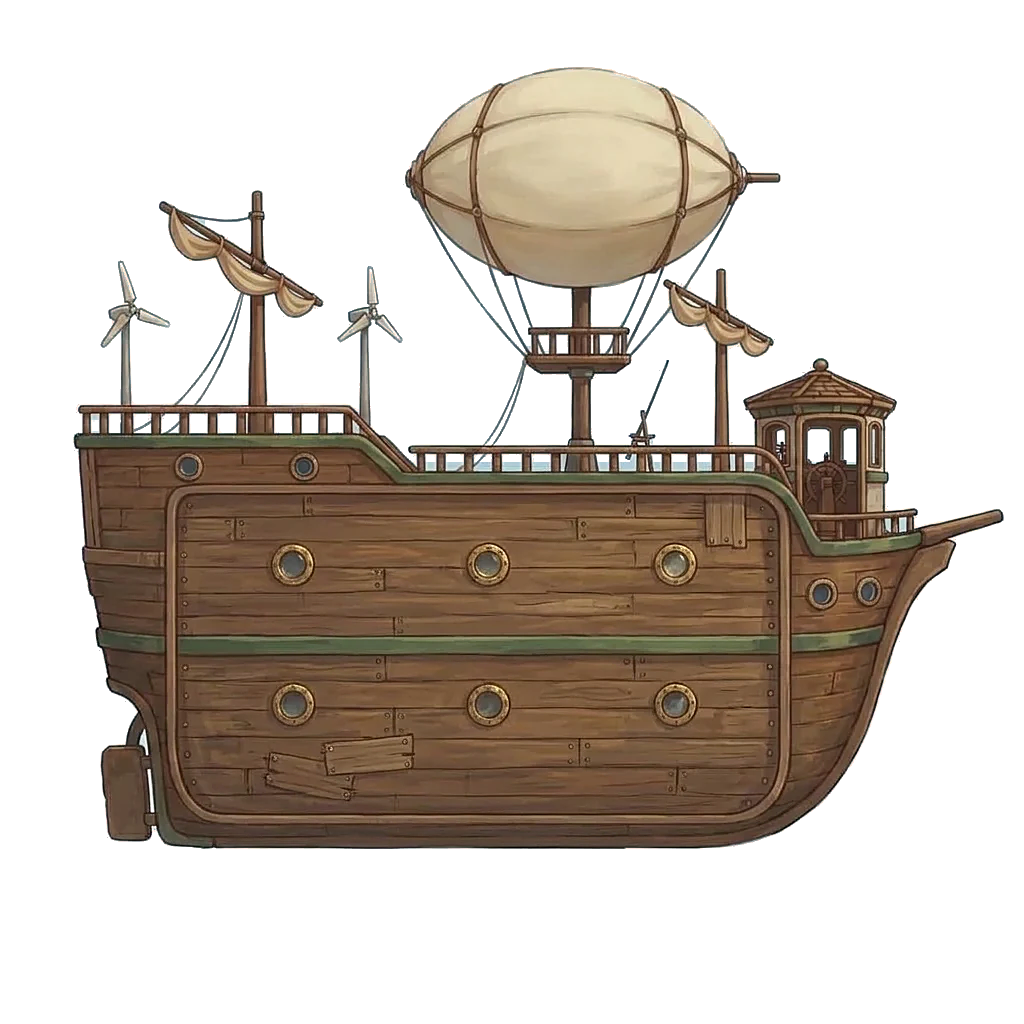
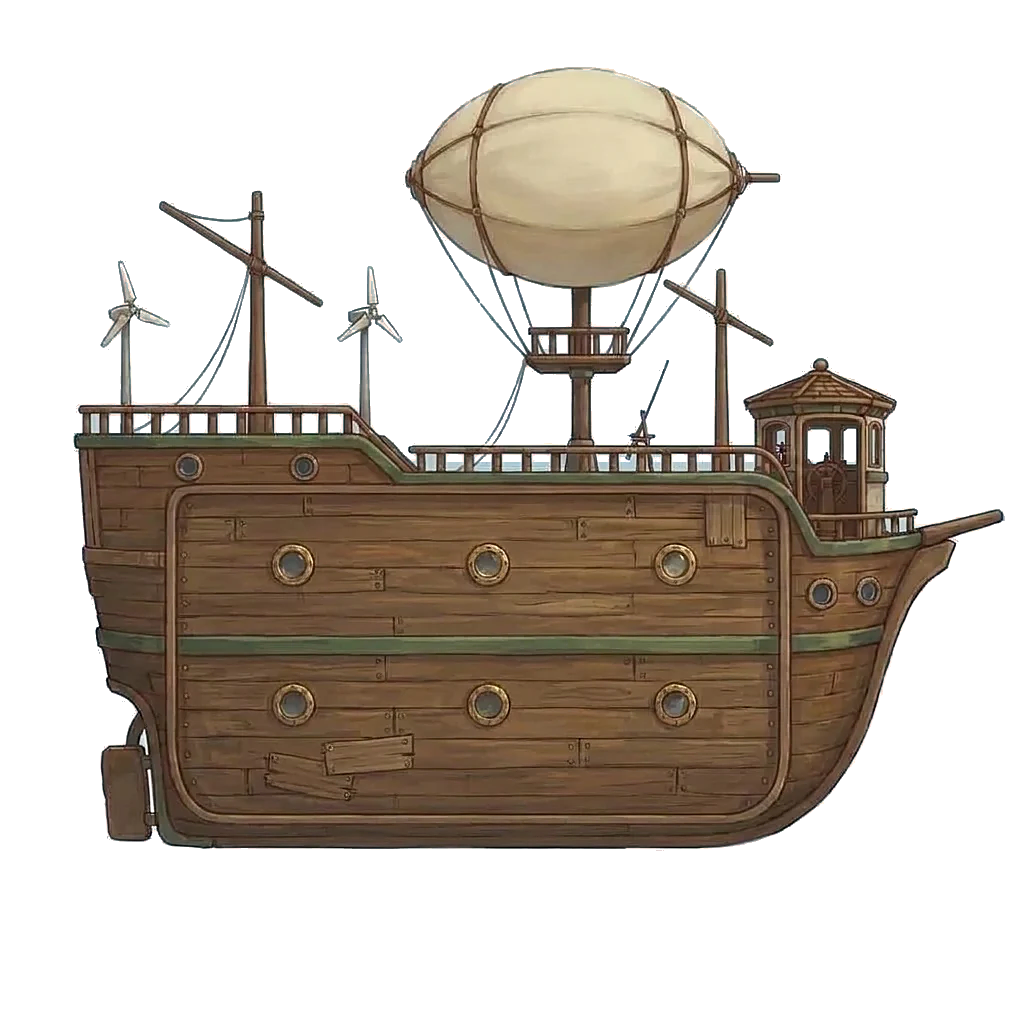
Главная: паруса раскатываются и сворачиваются, корабль с голыми реями и слоями парусов, отступы от краёв экрана

diff --git a/crates/game/src/menu.rs b/crates/game/src/menu.rs
@@ -41,11 +41,11 @@ const BOB_PERIOD: f32 = 4.0;
 const BOB_PX: f32 = 6.0;
 const BOB_TILT_DEG: f32 = 1.2;
 /// Корабль-разрез на главной: квадрат рисунка корпуса (логические px экрана 540×960).
-const SHIP_LEFT: f32 = -5.0;
+const SHIP_LEFT: f32 = 10.0;
 /// Ширина экрана в логических px.
 const SCREEN_W: f32 = 540.0;
 const SHIP_TOP: f32 = 190.0;
-const SHIP_SIDE: f32 = 555.0;
+const SHIP_SIDE: f32 = 520.0;
 const PRESSED_SCALE: f32 = 0.94;
 
 /// Данные меню: `data/menu.json`.
@@ -234,6 +234,7 @@ pub fn plugin(app: &mut App) {
                     spin_and_pulse,
                     drift_clouds,
                     scroll_backdrop,
+                    animate_sails,
                 ),
             )
                 .chain()
@@ -512,6 +513,60 @@ fn ship_outside(
                 },
                 ImageNode::new(assets.load(image.to_string())),
             ));
+        }
+        if let Some(sails) = &view.sails {
+            for (index, sail) in sails.layers.iter().enumerate() {
+                let [x, y, w, h] = sail.rect;
+                deck.spawn((
+                    Node {
+                        position_type: PositionType::Absolute,
+                        left: pct(x),
+                        top: pct(y),
+                        width: pct(w),
+                        height: pct(h),
+                        ..default()
+                    },
+                    Pickable::IGNORE,
+                ))
+                .with_children(|frame| {
+                    frame.spawn((
+                        SailFurled(index),
+                        Node {
+                            position_type: PositionType::Absolute,
+                            width: percent(100),
+                            height: percent(100),
+                            ..default()
+                        },
+                        ImageNode::new(assets.load(sail.furled.clone())),
+                        Pickable::IGNORE,
+                    ));
+                    // Раскрытый парус показывается сверху вниз — раскатывается от реи.
+                    frame
+                        .spawn((
+                            SailOpen(index),
+                            Node {
+                                position_type: PositionType::Absolute,
+                                width: percent(100),
+                                height: percent(0),
+                                overflow: Overflow::clip(),
+                                ..default()
+                            },
+                            Pickable::IGNORE,
+                        ))
+                        .with_children(|clip| {
+                            clip.spawn((
+                                Node {
+                                    position_type: PositionType::Absolute,
+                                    width: percent(100),
+                                    height: px(SHIP_SIDE * h / view.size),
+                                    ..default()
+                                },
+                                ImageNode::new(assets.load(sail.open.clone())),
+                                Pickable::IGNORE,
+                            ));
+                        });
+                });
+            }
         }
         propeller(deck, assets, view);
     });
@@ -1505,6 +1560,33 @@ fn refresh_toast(
 /// Пропеллер: оборотов в секунду.
 #[derive(Component)]
 struct Spinner(f32);
+
+/// Скатка паруса и рамка раскрытого паруса (номер паруса в данных).
+#[derive(Component)]
+struct SailFurled(usize);
+
+#[derive(Component)]
+struct SailOpen(usize);
+
+fn animate_sails(
+    time: Res<Time>,
+    data: Res<ShipData>,
+    mut furled: Query<(&SailFurled, &mut ImageNode)>,
+    mut open: Query<(&SailOpen, &mut Node)>,
+) {
+    let Some(sails) = &data.view.sails else {
+        return;
+    };
+    let t = time.elapsed_secs();
+    for (sail, mut image) in &mut furled {
+        // Скатка гаснет в первой половине раскрытия: дальше её закрывает парус.
+        let s = sails.openness(sail.0, t);
+        image.color = Color::WHITE.with_alpha((1.0 - s * 2.0).clamp(0.0, 1.0));
+    }
+    for (sail, mut node) in &mut open {
+        node.height = percent(sails.openness(sail.0, t) * 100.0);
+    }
+}
 
 /// Комната отсека, открытого в панели.
 #[derive(Component)]

diff --git a/tools/sprites/ship_rooms.py b/tools/sprites/ship_rooms.py
@@ -4,7 +4,7 @@
   python3 tools/sprites/ship_rooms.py
 
 art/2d/ship/: base_a.png — корабль-разрез на небе (первый облик всех комнат); exterior.png — он же
-снаружи, с закрытым бортом; up_<что>.png — тот же
+снаружи, с закрытым бортом; exterior_sails / exterior_bare — правки exterior: паруса распущены / голые реи; up_<что>.png — тот же
 рисунок, где правкой в Gemini улучшена одна комната; locked.png — правка с заколоченной комнатой;
 scaffold.png — леса на белом фоне; propeller.png — пропеллер анфас на белом (крутится в игре). Рамки комнат — в data/ship.json (view.rooms, пиксели 1024).
 Небо вырезается: заливка от краёв по цвету неба и крупные просветы выше корпуса.
@@ -87,13 +87,57 @@ def without_sky(img, sharpen=True):
     return out
 
 
+def sail_boxes(a, b, pad=6):
+    """Рамки, где рисунки a и b различаются (по пятнам), — x0, y0, x1, y1."""
+    diff = np.abs(a.astype(int) - b.astype(int)).max(axis=2) > 40
+    m = Image.fromarray(diff.astype(np.uint8) * 255).filter(ImageFilter.MaxFilter(9)).filter(ImageFilter.MinFilter(5))
+    work = m.copy()
+    boxes = []
+    arr = np.asarray(m) > 0
+    for y, x in zip(*np.nonzero(arr[::4, ::4])):
+        x, y = int(x) * 4, int(y) * 4
+        if work.getpixel((x, y)) != 255:
+            continue
+        ImageDraw.floodfill(work, (x, y), 128)
+        blob = np.asarray(work) == 128
+        work = Image.fromarray(np.where(blob, 64, np.asarray(work)).astype(np.uint8)).copy()
+        ys, xs = np.nonzero(blob)
+        if len(xs) > 600:
+            boxes.append([xs.min() - pad, ys.min() - pad, xs.max() + pad, ys.max() + pad])
+    return boxes
+
+
+def sails():
+    """Корабль снаружи с живыми парусами. Три правки одного рисунка в Gemini: exterior (паруса
+    свёрнуты), exterior_sails (распущены), exterior_bare (голые реи). Основа — голые реи; поверх
+    у каждой мачты слой скатки и слой паруса (в игре парус раскатывается, скатка гаснет)."""
+    names = ("exterior", "exterior_sails", "exterior_bare")
+    src = {n: Image.open(ART / f"{n}.png").convert("RGB") for n in names}
+    arr = {n: np.asarray(img) for n, img in src.items()}
+    cut = {n: without_sky(img) for n, img in src.items()}
+    cut["exterior_bare"].save(OUT / "exterior.png", optimize=True)
+    boxes = sail_boxes(arr["exterior_sails"], arr["exterior_bare"]) + sail_boxes(arr["exterior"], arr["exterior_bare"])
+    # Парус и его скатка — одна рамка: сливаем пересекающиеся.
+    merged = []
+    for b in sorted(boxes):
+        for m in merged:
+            if b[0] < m[2] and m[0] < b[2] and b[1] < m[3] and m[1] < b[3]:
+                m[:] = [min(m[0], b[0]), min(m[1], b[1]), max(m[2], b[2]), max(m[3], b[3])]
+                break
+        else:
+            merged.append(list(b))
+    for i, (x0, y0, x1, y1) in enumerate(merged, 1):
+        cut["exterior"].crop((x0, y0, x1, y1)).save(OUT / f"sail_{i}_furled.png", optimize=True)
+        cut["exterior_sails"].crop((x0, y0, x1, y1)).save(OUT / f"sail_{i}_open.png", optimize=True)
+        print(f"парус {i}: rect [{x0}, {y0}, {x1 - x0}, {y1 - y0}]")
+
+
 def main():
     OUT.mkdir(parents=True, exist_ok=True)
     view = json.loads((ROOT / "data" / "ship.json").read_text())["view"]
     rects = {r["id"]: r["rect"] for r in view["rooms"]}
     without_sky(Image.open(ART / "base_a.png").convert("RGB")).save(OUT / "hull.png", optimize=True)
-    # Тот же корабль снаружи (правка base_a в Gemini: борт закрыт) — на главной.
-    without_sky(Image.open(ART / "exterior.png").convert("RGB")).save(OUT / "exterior.png", optimize=True)
+    sails()
     for room, src in UPGRADES.items():
         x, y, w, h = rects[room]
         pic = without_sky(Image.open(ART / f"{src}.png").convert("RGB"))

diff --git a/crates/game/src/ship.rs b/crates/game/src/ship.rs
@@ -40,6 +40,9 @@ pub struct ShipData {
 pub struct ShipView {
     /// Корабль снаружи — на главной; рисунок того же размера, что и разрез.
     pub exterior: String,
+    /// Паруса снаружи: то раскатываются, то сворачиваются.
+    #[serde(default)]
+    pub sails: Option<Sails>,
     /// Панорама неба за кораблём: едет влево по кругу.
     pub backdrop: Backdrop,
     /// Стайка птиц изредка обгоняет корабль.
@@ -72,6 +75,42 @@ pub struct CloudDef {
     /// Перед кораблём (иначе — за ним).
     #[serde(default)]
     pub front: bool,
+}
+
+/// Цикл парусов (с): свёрнуты → раскатываются за `unfurl` → стоят `open` → сворачиваются.
+/// Каждый следующий парус — на `stagger` позже.
+#[derive(Deserialize)]
+pub struct Sails {
+    pub cycle: f32,
+    pub unfurl: f32,
+    pub open: f32,
+    pub stagger: f32,
+    pub layers: Vec<SailLayer>,
+}
+
+impl Sails {
+    /// Насколько раскрыт парус `index` в момент `t`: 0 — свёрнут, 1 — раскрыт.
+    pub fn openness(&self, index: usize, t: f32) -> f32 {
+        let p = (t - index as f32 * self.stagger).rem_euclid(self.cycle);
+        let s = if p < self.unfurl {
+            p / self.unfurl
+        } else if p < self.unfurl + self.open {
+            1.0
+        } else if p < 2.0 * self.unfurl + self.open {
+            1.0 - (p - self.unfurl - self.open) / self.unfurl
+        } else {
+            0.0
+        };
+        s * s * (3.0 - 2.0 * s)
+    }
+}
+
+/// Парус: скатка и раскрытый парус в одной рамке (x, y, ширина, высота в px рисунка).
+#[derive(Deserialize)]
+pub struct SailLayer {
+    pub furled: String,
+    pub open: String,
+    pub rect: [f32; 4],
 }
 
 #[derive(Deserialize)]
